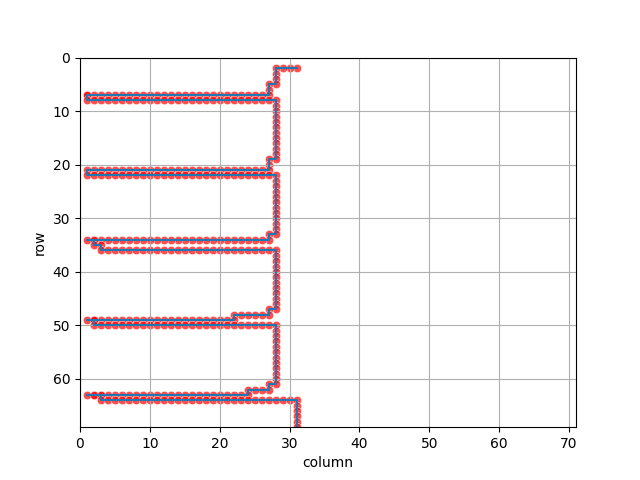
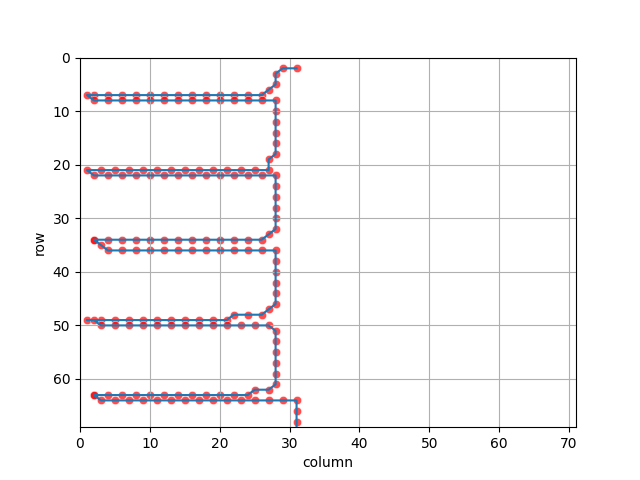
add condition to next button on draw page

Changed region(s): [[0.125, 0.125, 0.4688, 0.875]]

diff --git a/src/presentation/input/InputDrawPanel.java b/src/presentation/input/InputDrawPanel.java
@@ -17,6 +17,9 @@ public class InputDrawPanel extends ViewModelPanel {
     // size of board
     private int sizeRows = 0;
     private int sizeCols = 0;
+
+    private int exits = 0;
+    private int entries = 0;
     // board to draw
     private ArrayList<ArrayList<InputCell>> board = new ArrayList<>();
     // what draw
@@ -39,11 +42,10 @@ public class InputDrawPanel extends ViewModelPanel {
 //            }
 //            //System.out.println();
 //        }
-        DrawUtils.drawBoard(g,getViewModel().getBoardInteger(), getWidth());
+        DrawUtils.drawBoard(g, getViewModel().getBoardInteger(), getWidth());
     }
 
     public InputDrawPanel() {
-
         //System.out.println(this.getViewModel().getBoard());
 
 //        addComponentListener(new ComponentAdapter() {
@@ -97,6 +99,7 @@ public class InputDrawPanel extends ViewModelPanel {
                     sizeRows = (int) rowsSpinner.getValue();
                     resizeBoard();
                     repaint();
+                    check();
                 } catch (Exception err) {
                     System.out.println(err.getMessage());
                 }
@@ -112,9 +115,9 @@ public class InputDrawPanel extends ViewModelPanel {
             public void stateChanged(ChangeEvent e) {
                 try {
                     sizeCols = (int) colsSpinner.getValue();
-
                     resizeBoard();
                     repaint();
+                    check();
                 } catch (Exception err) {
                     System.out.println(err.getMessage());
                 }
@@ -127,22 +130,27 @@ public class InputDrawPanel extends ViewModelPanel {
         this.addMouseListener(new MouseAdapter() {
             @Override
             public void mouseClicked(MouseEvent e) {
-                for (int i = 0; i  < sizeRows; i++) {
+                entries = 0;
+                exits = 0;
+                for (int i = 0; i < sizeRows; i++) {
                     for (int j = 0; j < sizeCols; j++) {
 
-                        Rectangle cellRectangle = DrawUtils.getCellRectangle(j,i,getWidth(), sizeCols);
+                        Rectangle cellRectangle = DrawUtils.getCellRectangle(j, i, getWidth(), sizeCols);
 //                        Rectangle cellRectangle = new Rectangle(board.get(i).get(j).getX(), board.get(i).get(j).getY(),
 //                                board.get(i).get(j).getWidth(), board.get(i).get(j).getHeight());
 
-                        if(cellRectangle.contains(e.getX(), e.getY())){
+                        if (cellRectangle.contains(e.getX(), e.getY())) {
                             board.get(i).get(j).setState(currentState);
                             repaint();
                         }
+
+                        if(board.get(i).get(j).getState() == State.ENTRY) entries++;
+                        if(board.get(i).get(j).getState() == State.EXIT) exits++;
                     }
                 }
+                check();
             }
         });
-
 
 
     }
@@ -208,7 +216,7 @@ public class InputDrawPanel extends ViewModelPanel {
                 //System.out.println("add col:");
                 while (cols < sizeCols) {
                     for (int i = 0; i < sizeRows; i++) {
-                        InputCell rect = new InputCell(cols,i);
+                        InputCell rect = new InputCell(cols, i);
                         board.get(i).add(rect);
                         //board.get(i).getLast().setPosition(cols,i);
                         //this.add(rect);
@@ -227,28 +235,35 @@ public class InputDrawPanel extends ViewModelPanel {
 
     @Override
     public void panelShown() {
-        if(this.getViewModel().checkBoard()){
+        if (this.getViewModel().checkBoard()) {
             ArrayList<ArrayList<InputCell>> board = this.getViewModel().getBoard();
             sizeRows = board.size();
             rowsSpinner.setValue(sizeRows);
-            if(sizeRows > 0){
+            if (sizeRows > 0) {
                 sizeCols = board.getFirst().size();
                 colsSpinner.setValue(sizeCols);
             }
             this.board = board;
             //resize();
 
-//            for (int i = 0; i < board.size(); i++) {
-//                for (int j = 0; j < board.get(i).size(); j++) {
-//                    this.board.get(i).get(j).changeState(State.getFromInt(board.get(i).get(j)));
-//                }
-//            }
+            for (int i = 0; i < board.size(); i++) {
+                for (int j = 0; j < board.get(i).size(); j++) {
+                        if(board.get(i).get(j).getState() == State.ENTRY) entries++;
+                        if(board.get(i).get(j).getState() == State.EXIT) exits++;
+                }
+            }
+
             repaint();
         }
+        check();
     }
 
     @Override
     public void panelHidden() {
         getViewModel().setBoard(board);
+    }
+
+    private void check() {
+        checkNextButton(sizeCols > 0 && sizeRows > 0 && exits > 0 && entries > 0);
     }
 }

diff --git a/ml/way.py b/ml/way.py
@@ -25,15 +25,16 @@ def plot(df, name):
 
 def clust(arr):
     n = len(arr)
+
     dist_matrix = np.zeros((n, n))
-    for i in range(n - 1):
+    for i in range(0, n - 1):
         for j in range(i + 1, n):
             dist = similaritymeasures.frechet_dist(arr[i], arr[j])
             dist_matrix[i, j] = dist
             dist_matrix[j, i] = dist
         print(i)
     #print(dist_matrix)
-    cl = DBSCAN(eps=4, min_samples=1, metric='precomputed')
+    cl = DBSCAN(eps=2, min_samples=1, metric='precomputed')
     dbscan_clust = cl.fit(dist_matrix)
     clusters = cl.labels_
     return clusters
@@ -63,7 +64,8 @@ if __name__ == '__main__':
         nums = f.read().splitlines()
 
     for i in range(1, len(nums)):
-        lst = ast.literal_eval(nums[i])
+        lst = ast.literal_eval(nums[i])[::2]
+        #print(lst)
         if lst not in arr_ways:
             arr_ways.append(lst)
 

diff --git a/src/presentation/AnalysisPanel.java b/src/presentation/AnalysisPanel.java
@@ -39,8 +39,10 @@ public class AnalysisPanel extends ViewModelPanel {
                 }else{
                     g.setColor(new Color(0x003CFF));
                 }
-                g.fillRect(key.column()* ConstantUtil.SIZE_OF_CELL, key.row()*ConstantUtil.SIZE_OF_CELL,
-                        ConstantUtil.SIZE_OF_CELL, ConstantUtil.SIZE_OF_CELL);
+                Rectangle rectangle = DrawUtils.getCellRectangle(key.column(), key.row(), getWidth(), getViewModel().getBoardInteger().getFirst().size());
+                g.fillRect(rectangle.x, rectangle.y, rectangle.width, rectangle.height);
+//                g.fillRect(key.column()* ConstantUtil.SIZE_OF_CELL, key.row()*ConstantUtil.SIZE_OF_CELL,
+//                        ConstantUtil.SIZE_OF_CELL, ConstantUtil.SIZE_OF_CELL);
                 g.setColor(Color.BLACK);
             }
         }

diff --git a/src/presentation/ViewModel.java b/src/presentation/ViewModel.java
@@ -8,6 +8,7 @@ import utils.ConstantUtil;
 
 import java.util.ArrayList;
 import java.util.Map;
+import java.util.Objects;
 
 public class ViewModel {
     private ArrayList<ArrayList<InputCell>> board;
@@ -141,6 +142,7 @@ public class ViewModel {
     public boolean checkNextPage() {
         return !(pageIndex == pages.length - 1);
     }
+
 
     public boolean checkPreviousPage() {
         return !(pageIndex == 0 || pageIndex == pages.length - 1);

diff --git a/src/presentation/BoardPanel.java b/src/presentation/BoardPanel.java
@@ -239,7 +239,7 @@ public class BoardPanel extends ViewModelPanel {
         Timer timer = new Timer(100, new ActionListener() {
             @Override
             public void actionPerformed(ActionEvent e) {
-                //step();
+                step();
 
             }
         });

diff --git a/src/presentation/ViewModelPanel.java b/src/presentation/ViewModelPanel.java
@@ -73,6 +73,9 @@ public class ViewModelPanel extends JPanel {
         viewModel.showAnalysis();
     }
 
+    public void checkNextButton(boolean condition){
+        nextButton.setEnabled(condition);
+    }
     public void panelShown() {
 
     }
